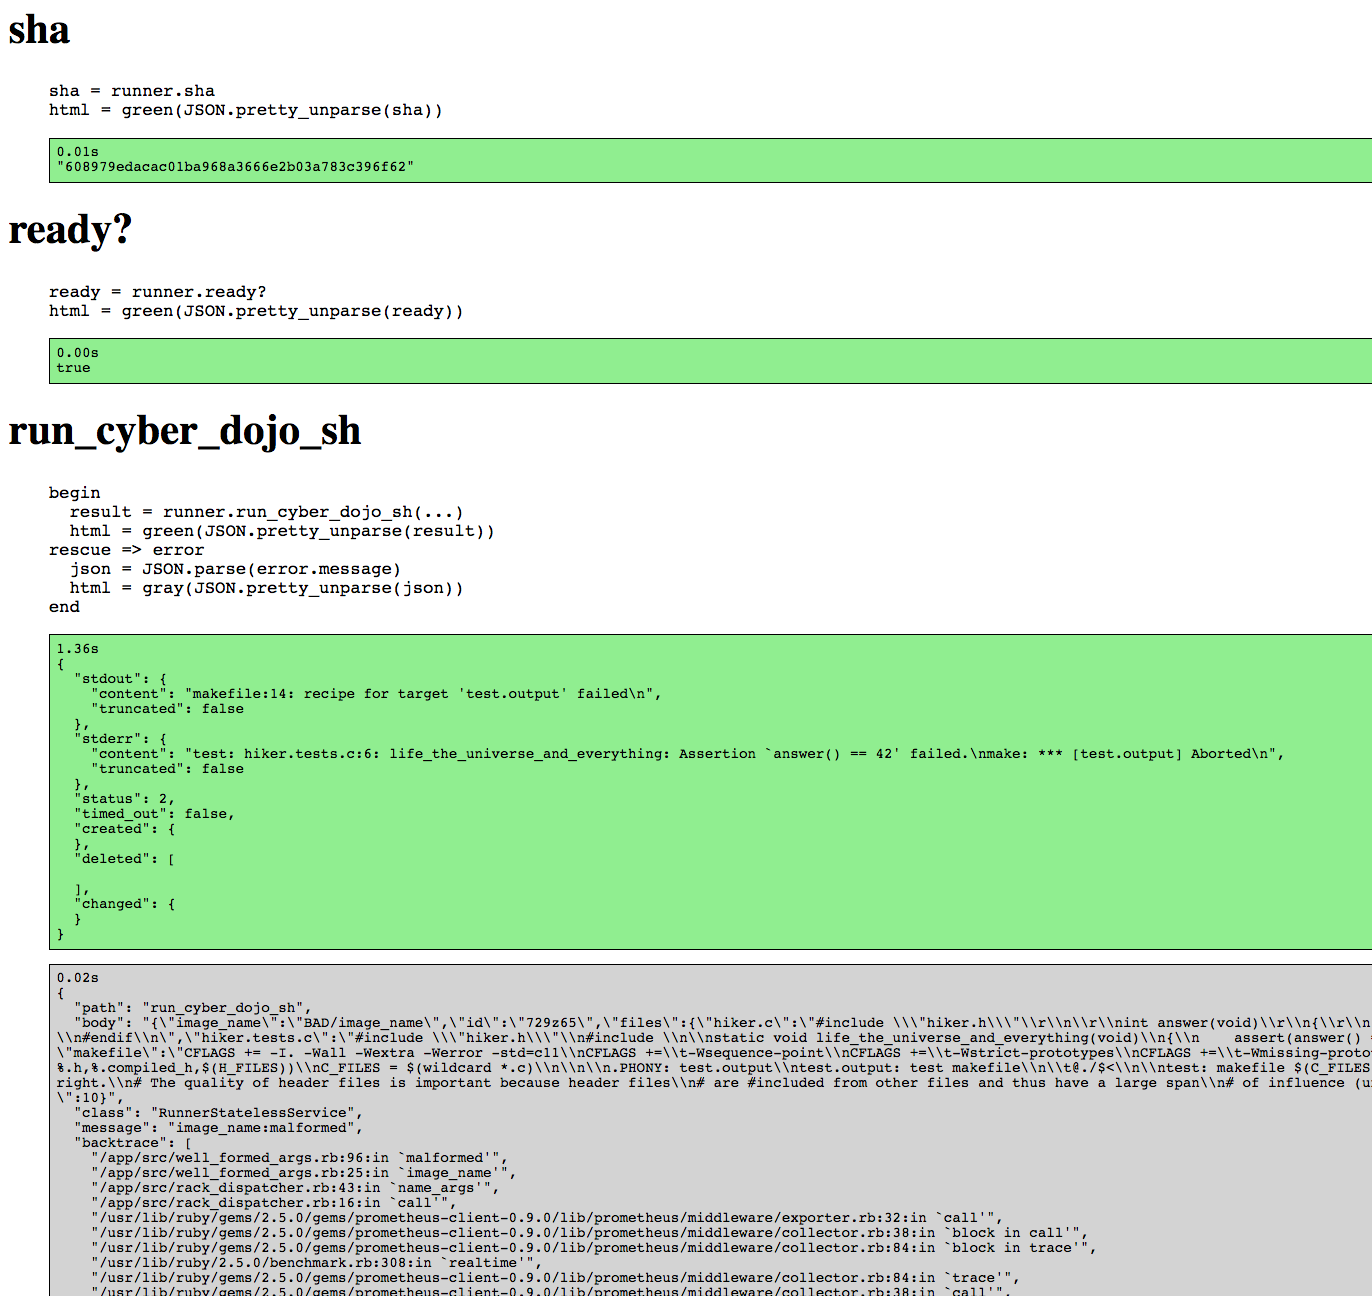
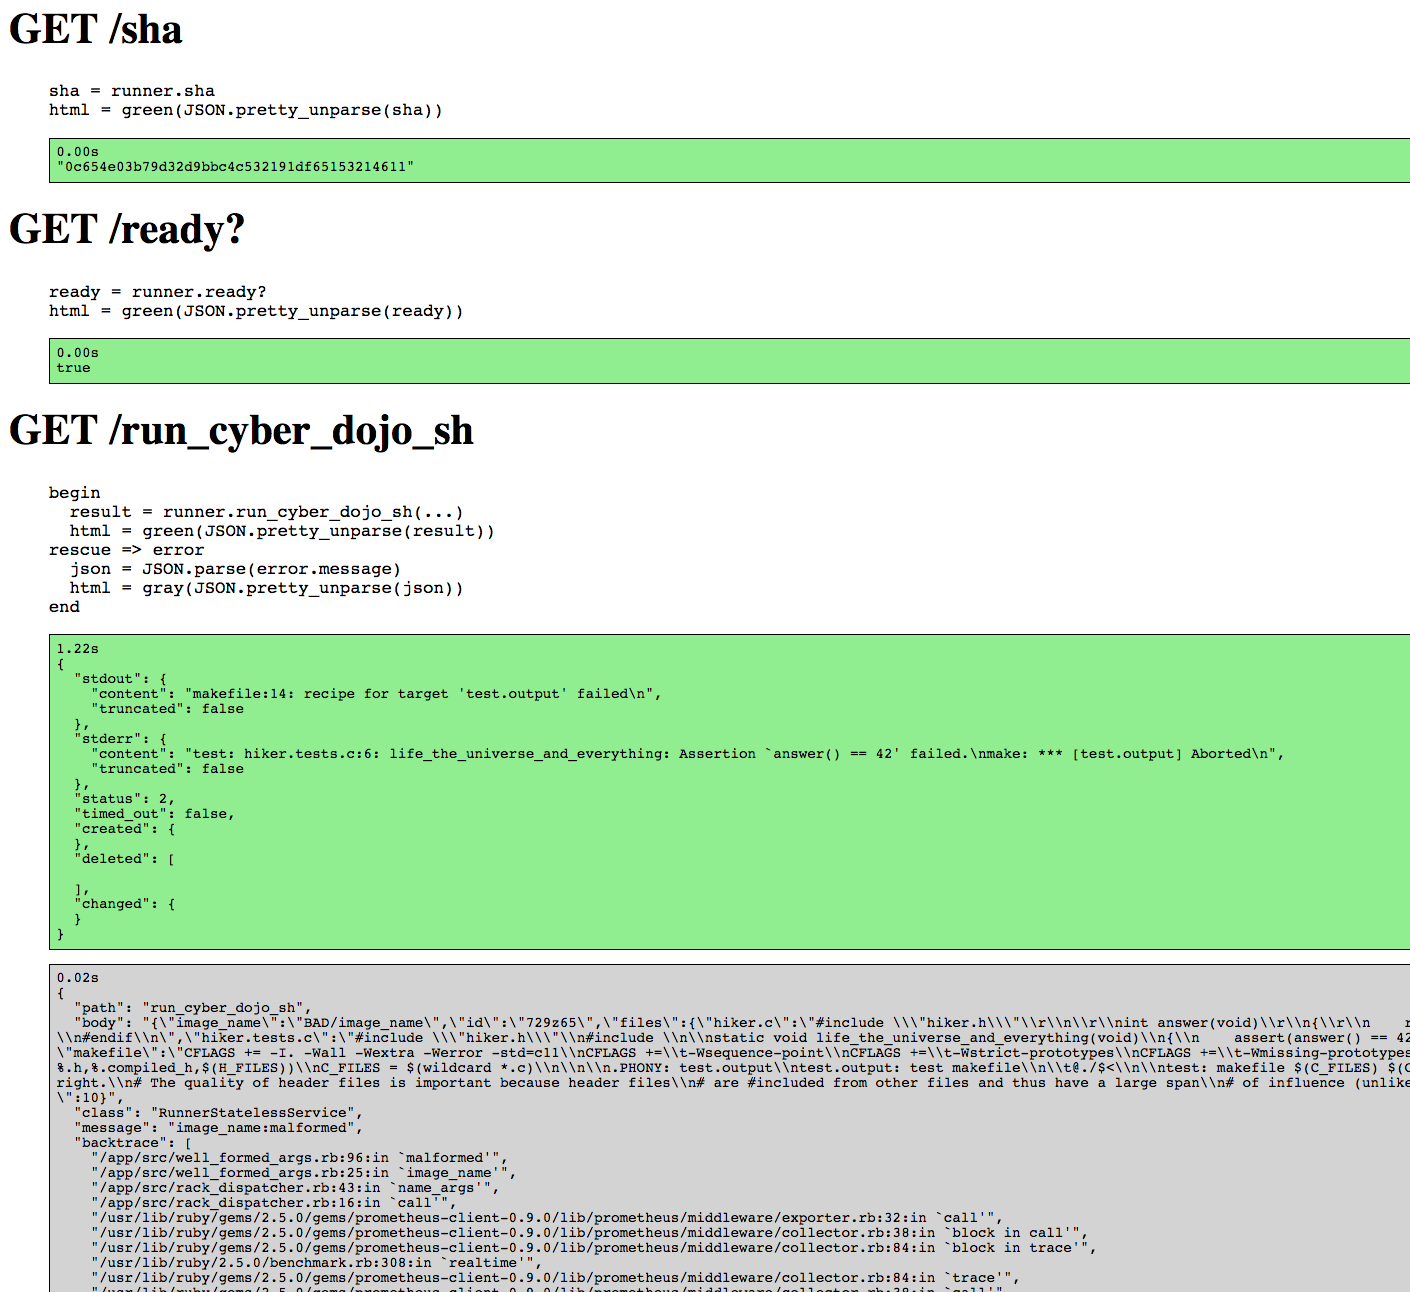
[ci skip] put GET/ prefix back into demo and readme

Changed region(s): [[0.0, 0.0619, 1.0, 1.0], [0.0, 0.0, 0.1224, 0.031]]

diff --git a/test_client/src/demo.rb b/test_client/src/demo.rb
@@ -12,13 +12,13 @@ class Demo
 
   def inner_call
     @html = ''
-    @html += '<h1>sha</h1>'
+    @html += '<h1>GET /sha</h1>'
     @html += pre(sha_snippet)
     sha
-    @html += '<h1>ready?</h1>'
+    @html += '<h1>GET /ready?</h1>'
     @html += pre(ready_snippet)
     ready?
-    @html += '<h1>run_cyber_dojo_sh</h1>'    
+    @html += '<h1>GET /run_cyber_dojo_sh</h1>'    
     @html += pre(run_cyber_dojo_sh_snippet)
     @image_name = 'cyberdojofoundation/gcc_assert'
     @id = '729z65'

diff --git a/README.md b/README.md
@@ -10,9 +10,9 @@ alt="cyber-dojo yin/yang logo" width="50px" height="50px"/>
 - Runs `cyber-dojo.sh` inside a docker container for at most max_seconds.
 
 # API
-  * [run_cyber_dojo_sh(image_name,id,files,max_seconds)](#run_cyber_dojo_shimage_nameidfilesmax_seconds)
-  * [ready?](#ready)
-  * [sha](#sha)
+  * [GET run_cyber_dojo_sh(image_name,id,files,max_seconds)](#get-run_cyber_dojo_shimage_nameidfilesmax_seconds)
+  * [GET ready?](#get-ready)
+  * [GET sha](#get-sha)
 
 - - - -
 
@@ -25,7 +25,7 @@ alt="cyber-dojo yin/yang logo" width="50px" height="50px"/>
 
 - - - -
 
-# run_cyber_dojo_sh(image_name,id,files,max_seconds)
+# GET run_cyber_dojo_sh(image_name,id,files,max_seconds)
 - parameters
   * **image_name:String** must be created with [image_builder](https://github.com/cyber-dojo-languages/image_builder)
   * **id:String** for tracing, must be in [base58](https://github.com/cyber-dojo/runner-stateless/blob/master/src/base58.rb)
@@ -111,7 +111,7 @@ alt="cyber-dojo yin/yang logo" width="50px" height="50px"/>
 
 - - - -
 
-# ready?
+# GET ready?
 - parameters
   * none
   ```
@@ -128,7 +128,7 @@ alt="cyber-dojo yin/yang logo" width="50px" height="50px"/>
 
 - - - -
 
-# sha
+# GET sha
 - parameters
   * none
   ```
